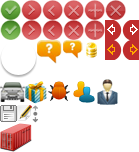
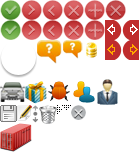
Groups

Changed region(s): [[0.259, 0.6842, 0.4317, 0.8158], [0.4604, 0.6842, 0.6331, 0.7895]]

diff --git a/main.html b/main.html
@@ -10,23 +10,6 @@
 	<!--[if IE]><link rel="stylesheet" type="text/css" href='css/ie.css' /><![endif]-->
 
 	<link rel="Shortcut Icon" type="image/x-icon" href="" />
-	<script type="text/javascript">
-		var $ = function(s) {return document.querySelector(s)};
-		var setHeight = function() {
-			var mid = $('.page-mid'),
-					top = $('.page-top'),
-					bot = $('.page-bot');
-
-			mid.style.height = document.body.clientHeight - (top.clientHeight + bot.clientHeight) + 'px';
-		};
-
-		window.onload = function() {
-			setHeight();
-		};
-		window.onresize = function() {
-			setHeight();
-		};
-	</script>
 </head>
 <body>
 
@@ -65,7 +48,7 @@
 				<img src="img/_map.jpg"  alt="" />
 			</div>
 
-			<div class="zones">
+			<div id="zones" class="zones g-hidden">
 				<div class="zones-settings">
 					<div class="zones-heading grad-red">
 						<div class="zones-switcher ui-switcher">
@@ -420,7 +403,8 @@
 						</tr>
 						</tbody>
 					</table>
-				</div>				</div>
+				</div>
+			</div>
 				<!-- user details -->
 			<div id="d5" class="content-short-outer g-hidden device-5">
 				<div class="heading clearfix">
@@ -516,6 +500,82 @@
 				</table>
 			</div>
 
+			<div id="groups" class="groups">
+				<!-- блок отоброжения групп -->
+				<div class="users-view">
+					<ul class="users-list clearfix">
+						<li>
+							<a class="user-add-pseudoico" href="#">+</a>
+							<span class="user-avatar"><img src="img/_user_avatar.jpg" alt="Фото - Елена Алексеева" /></span>
+							<span class="user-fn">Елена Алексеева</span>
+						</li>
+						<li>
+							<a class="user-add-pseudoico" href="#">+</a>
+							<span class="user-avatar"><img src="img/_user_avatar.jpg" alt="Фото - Елена Алексеева" /></span>
+							<span class="user-fn">Ольга Алексеева</span>
+						</li>
+						<li>
+							<a class="user-add-pseudoico" href="#">+</a>
+							<span class="user-avatar"><img src="img/_user_avatar.jpg" alt="Фото - Елена Алексеева" /></span>
+							<span class="user-fn">Иван Алексей</span>
+						</li>
+						<li>
+							<a class="user-add-pseudoico" href="#">+</a>
+							<span class="user-avatar"><img src="img/_user_avatar.jpg" alt="Фото - Елена Алексеева" /></span>
+							<span class="user-fn">Аэишлат Алексеев</span>
+						</li>
+					</ul>
+				</div>
+				<!-- блок редактирования групп -->
+				<div class="groups-edit-container">
+					<div class="btn ico-add btn-add-group"><button><i class="ico"></i>Добавить группу</button></div>
+					<div class="groups-edit-grid clearfix">
+						<ul class="groups-edit clearfix">
+							<li>
+								<div class="group-details">
+									<span class="group-title">Группа 1</span> <i class="ico ico-edit edit-group-title"></i>
+									<span class="group-users-count">(3 друга)</span>
+								</div>
+								<div class="group-remove">
+									<i class="ico ico-trash"></i> <a href="#">Удалить</a>
+								</div>
+								<ul class="group-users-list">
+									<li><i class="ico ico-remove"></i> Друг 11</li>
+									<li><i class="ico ico-remove"></i> Друг 22</li>
+									<li><i class="ico ico-remove"></i> Друг 33</li>
+								</ul>
+							</li>
+							<!--group-->
+							<li class="extended">
+								<div class="group-details">
+									<span class="group-title">Группа 1</span> <i class="ico ico-edit edit-group-title"></i>
+									<span class="group-users-count">(3 друга)</span>
+								</div>
+								<div class="group-remove">
+									<i class="ico ico-trash"></i> <a href="#">Удалить</a>
+								</div>
+								<ul class="group-users-list">
+									<li><i class="ico ico-remove"></i> Друг 1</li>
+									<li><i class="ico ico-remove"></i> Друг 2</li>
+									<li><i class="ico ico-remove"></i> Друг 3</li>
+								</ul>
+							</li>
+							<!--group-->
+							<li>
+								<div class="group-details">
+									<span class="group-title"><input type="text" value="Группа 3" /></span> <i class="ico ico-save edit-group-title"></i>
+									<span class="group-users-count">(3 друга)</span>
+								</div>
+								<div class="group-remove">
+									<i class="ico ico-trash"></i> <a href="#">Удалить</a>
+								</div>
+							</li>
+						</ul>
+					</div>
+				</div>
+			</div>
+
+
 		</div>
 	</div>
 	<div class="page-bot">
@@ -563,7 +623,7 @@
 		</div><!--//slider-->
 
 		<!--additional blocks-->
-		<div class="slider slider--zones">
+		<div class="slider slider--zones g-hidden">
 			<div class="slider-outer">
 				<div class="slider-inner">
 					<ul class="slider-list">
@@ -645,6 +705,22 @@
 			</div>
 		</div>
 	</div>
+
+<script type="text/javascript">
+	var $ = function(s) {return document.querySelector(s)};
+	var setHeight = function() {
+		var mid = $('.page-mid'),
+				top = $('.page-top'),
+				bot = $('.page-bot');
+
+		mid.style.height = document.body.clientHeight - (top.clientHeight + bot.clientHeight) + 'px';
+	};
+
+	setHeight();
+	window.onresize = function() {
+		setHeight();
+	};
+</script>
 
 </body>
 </html>

diff --git a/css/modules/mod_page_mid.css b/css/modules/mod_page_mid.css
@@ -58,3 +58,162 @@
 .setting-time select {width:40px;margin:0 3px 2px;}
 .setting-weekdays {text-align:center;white-space:nowrap;margin-bottom:2px;}
 .setting-weekdays input {display:inline-block;vertical-align:middle;margin-left:3px;}
+
+/* GROUPS
+--------------------------------*/
+.groups {
+	height: 100%;
+}
+
+.users-view {
+	height: 55%;
+	overflow: scroll;
+	border: 1px solid #BABABA;
+}
+
+.groups-edit-container {
+	height: 45%;
+	overflow: scroll;
+}
+
+.groups-edit-grid {
+	border: 1px solid #BABABA;
+}
+
+/* GROUPS: users-list
+--------------------------------*/
+.users-list li {
+	float: left;
+	border: 1px dotted #999999;
+	width: 240px;
+	height: 68px;
+	margin: 5px;
+	white-space: nowrap
+}
+
+.user-add-pseudoico {
+	text-decoration: none;
+	color: #6B6B6B;
+	font-size: 25px;
+	font-weight: bold;
+	padding: 10px 12px 0 15px;
+	vertical-align: middle;
+}
+
+.user-add-pseudoico:hover {
+	color:#C32F2F
+}
+
+.user-avatar {
+	display: inline-block;
+	vertical-align: middle;
+	margin: 6px 20px 0 0;
+}
+.user-avatar img {
+	border: 1px solid #C4C4C4;
+	padding: 1px;
+}
+
+.user-fn {
+	font-size: 12px;
+	font-size: 1.2rem;
+	display: inline-block;
+	width: 90px;
+	white-space: normal;
+	vertical-align: middle;
+	line-height: 1.4em;
+}
+
+/* GROUPS: groups-edit
+--------------------------------*/
+.groups {
+	color: #1d1d1d;
+}
+.groups-edit li:hover:not(.extended) .group-title {
+	color: #b11d2c;
+}
+.btn-add-group {
+	margin: 10px 15px
+}
+.groups-edit li {
+	overflow: hidden;
+}
+.group-details {
+	position: relative;
+	float: left;
+	width: 100%;
+	line-height: 25px;
+	min-height: 25px;
+	margin-right: -135px;
+}
+.extended .group-details {
+	background: #dcdfe0;
+	background: -moz-linear-gradient(top, #dcdfe0 0%, #c1c5c7 100%);
+	background: -webkit-gradient(linear, left top, left bottom, color-stop(0%,#dcdfe0), color-stop(100%,#c1c5c7));
+	background: -webkit-linear-gradient(top, #dcdfe0 0%,#c1c5c7 100%);
+	background: -o-linear-gradient(top, #dcdfe0 0%,#c1c5c7 100%);
+	background: -ms-linear-gradient(top, #dcdfe0 0%,#c1c5c7 100%);
+	filter: progid:DXImageTransform.Microsoft.gradient( startColorstr='#dcdfe0', endColorstr='#c1c5c7',GradientType=0 );
+	background: linear-gradient(top, #dcdfe0 0%,#c1c5c7 100%);
+}
+
+.extended {
+	border: 1px dotted #000;
+	border-width: 1px 0;
+}
+.group-details:before {
+	content: '';
+	display: block;
+	position: absolute;
+	width: 5px;
+	height: 9px;
+	left:10px;
+	top: 7px;
+	background: url("../../img/small_icons.png") no-repeat -57px -105px;
+}
+.extended .group-details:before {
+	width: 9px;
+	height: 5px;
+	left:6px;
+	top: 9px;
+	background: url("../../img/small_icons.png") no-repeat -62px -105px;
+}
+.group-title {
+	font-size: 12px;
+	font-size: 1.2rem;
+	margin-left: 25px;
+}
+.group-users-count {
+	font-size: 11px;
+	font-size: 1.1rem;
+	color: #5b5b5b;
+}
+.group-remove {
+	position: relative;
+	float: right;
+	width: 100px;
+	line-height: 25px;
+	font-size: 11px;
+	font-size: 1.1rem;
+}
+.group-users-list li {
+	height: 25px;
+	line-height: 25px;
+	font-size: 12px;
+}
+.group-users-list li:nth-child(2n) {
+	background: #EFEFEF;
+
+}
+.group-users-list {
+	clear: both;
+	display: none;
+}
+.group-users-list li {
+	padding-left: 30px;
+}
+.extended .group-users-list {
+	display: block;
+}
+.group-title input {
+}

diff --git a/css/modules/ui.css b/css/modules/ui.css
@@ -44,6 +44,8 @@
 .ico-ordering { margin-left: 5px; width: 6px; height: 18px; background-position:-32px -105px; }
 .ico-coins { width: 14px; height: 18px; margin-left: 1em;background-position: -83px -40px; }
 .ico-zone1 { width: 32px; height: 29px; background-position: 0 -123px; }
+.ico-trash { width: 19px; height: 19px; background-position: -38px -105px; }
+.ico-remove { width: 15px; height: 16px; background-position: -71px -105px; cursor:pointer }
 /* slider icons
 --------------------------------*/
 .ico-sprev, .ico-snext { width: 17px; height: 20px; }
